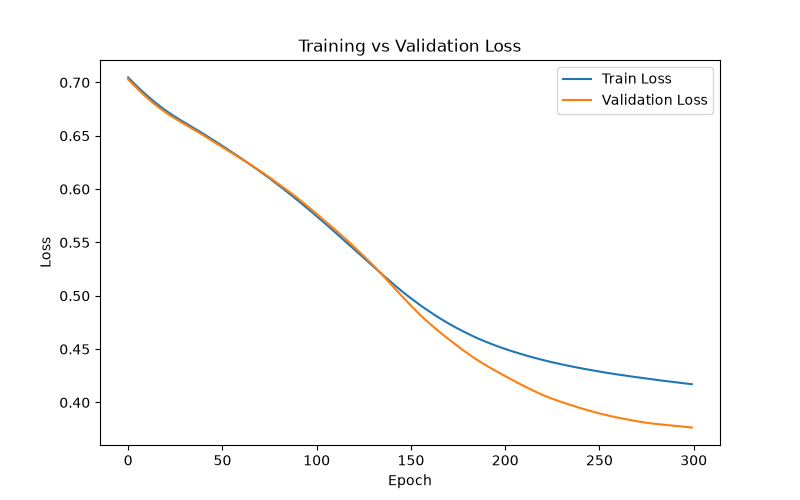
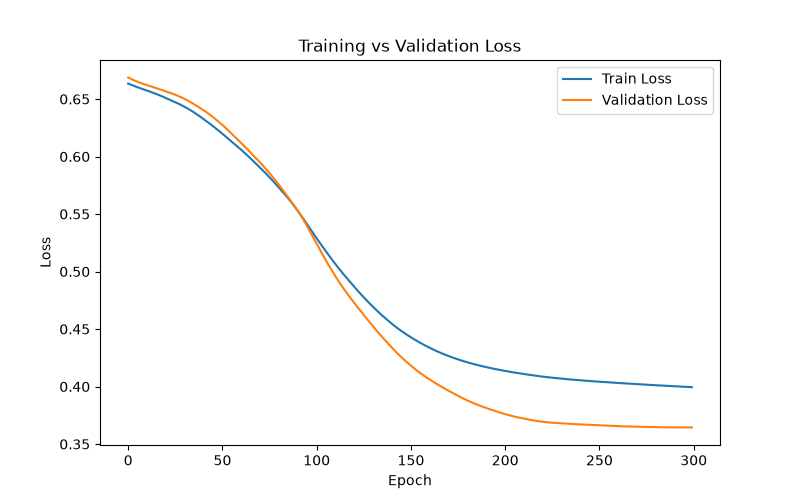
completed all three bonus tasks: hyperparameter tuning, model comparision, explainability

diff --git a/hyperparameter_tuning.py b/hyperparameter_tuning.py
@@ -1,0 +1,117 @@
+import pandas as pd
+import torch
+import torch.nn as nn
+from sklearn.preprocessing import StandardScaler
+from sklearn.model_selection import train_test_split
+from sklearn.metrics import accuracy_score, recall_score, f1_score
+
+# --- Data prep (same pipeline as model.py) ---
+df = pd.read_csv("data/titanic.csv")
+
+df["Age"] = df["Age"].fillna(df["Age"].median())
+df["Embarked"] = df["Embarked"].fillna(df["Embarked"].mode()[0])
+df = df.drop(columns=["Cabin", "PassengerId", "Name", "Ticket"])
+
+df["Sex"] = df["Sex"].map({"male": 0, "female": 1})
+df = pd.get_dummies(df, columns=["Embarked"], drop_first=True)
+df["Embarked_Q"] = df["Embarked_Q"].astype(int)
+df["Embarked_S"] = df["Embarked_S"].astype(int)
+
+X = df.drop(columns=["Survived"])
+y = df["Survived"]
+
+X_train, X_temp, y_train, y_temp = train_test_split(X, y, test_size=0.30, random_state=42, stratify=y)
+X_val, X_test, y_val, y_test = train_test_split(X_temp, y_temp, test_size=0.50, random_state=42, stratify=y_temp)
+
+scaler = StandardScaler()
+numeric_cols = ["Age", "Fare", "SibSp", "Parch"]
+X_train[numeric_cols] = scaler.fit_transform(X_train[numeric_cols])
+X_val[numeric_cols] = scaler.transform(X_val[numeric_cols])
+X_test[numeric_cols] = scaler.transform(X_test[numeric_cols])
+
+X_train_t = torch.tensor(X_train.values, dtype=torch.float32)
+X_val_t = torch.tensor(X_val.values, dtype=torch.float32)
+X_test_t = torch.tensor(X_test.values, dtype=torch.float32)
+y_train_t = torch.tensor(y_train.values, dtype=torch.float32).view(-1, 1)
+y_val_t = torch.tensor(y_val.values, dtype=torch.float32).view(-1, 1)
+y_test_t = torch.tensor(y_test.values, dtype=torch.float32).view(-1, 1)
+
+class FlexibleNet(nn.Module):
+    def __init__(self, input_size, hidden_sizes, activation="relu", dropout=0.0):
+        super().__init__()
+        layers = []
+        prev_size = input_size
+
+        act_fn = {"relu": nn.ReLU(), "tanh": nn.Tanh(), "leaky_relu": nn.LeakyReLU()}[activation]
+
+        for h in hidden_sizes:
+            layers.append(nn.Linear(prev_size, h))
+            layers.append(act_fn)
+            if dropout > 0:
+                layers.append(nn.Dropout(dropout))
+            prev_size = h
+
+        layers.append(nn.Linear(prev_size, 1))
+        layers.append(nn.Sigmoid())
+
+        self.network = nn.Sequential(*layers)
+
+    def forward(self, x):
+        return self.network(x)
+
+def train_and_evaluate(model, learning_rate=0.001, epochs=200):
+    criterion = nn.BCELoss()
+    optimizer = torch.optim.Adam(model.parameters(), lr=learning_rate)
+
+    for epoch in range(epochs):
+        model.train()
+        optimizer.zero_grad()
+        outputs = model(X_train_t)
+        loss = criterion(outputs, y_train_t)
+        loss.backward()
+        optimizer.step()
+
+    model.eval()
+    with torch.no_grad():
+        test_outputs = model(X_test_t)
+        test_preds = (test_outputs >= 0.5).float()
+
+    y_true = y_test_t.numpy()
+    y_pred = test_preds.numpy()
+
+    return {
+        "accuracy": accuracy_score(y_true, y_pred),
+        "recall": recall_score(y_true, y_pred),
+        "f1": f1_score(y_true, y_pred),
+    }
+
+# --- Grid search ---
+learning_rates = [0.001, 0.01, 0.0001]
+architectures = {
+    "small [8]": [8],
+    "medium [16,8]": [16, 8],
+    "large [32,16]": [32, 16],
+}
+
+grid_results = []
+
+for lr in learning_rates:
+    for arch_name, hidden_sizes in architectures.items():
+        torch.manual_seed(42)
+        model = FlexibleNet(input_size=8, hidden_sizes=hidden_sizes, activation="relu", dropout=0.0)
+        metrics = train_and_evaluate(model, learning_rate=lr)
+        grid_results.append({
+            "learning_rate": lr,
+            "architecture": arch_name,
+            **metrics
+        })
+
+# --- Print as a sorted table, best F1 first ---
+grid_results_sorted = sorted(grid_results, key=lambda r: r["f1"], reverse=True)
+
+print(f"{'LR':<10}{'Architecture':<16}{'Accuracy':<12}{'Recall':<12}{'F1':<12}")
+print("-" * 62)
+for r in grid_results_sorted:
+    print(f"{r['learning_rate']:<10}{r['architecture']:<16}{r['accuracy']:<12.4f}{r['recall']:<12.4f}{r['f1']:<12.4f}")
+
+print(f"\nBest combination: LR={grid_results_sorted[0]['learning_rate']}, Architecture={grid_results_sorted[0]['architecture']}")

diff --git a/explainability.py b/explainability.py
@@ -1,0 +1,101 @@
+import pandas as pd
+import numpy as np
+import torch
+import torch.nn as nn
+import matplotlib.pyplot as plt
+from sklearn.preprocessing import StandardScaler
+from sklearn.model_selection import train_test_split
+from sklearn.metrics import accuracy_score
+
+# --- Data prep (identical pipeline, identical random_state, to match model.py exactly) ---
+df = pd.read_csv("data/titanic.csv")
+
+df["Age"] = df["Age"].fillna(df["Age"].median())
+df["Embarked"] = df["Embarked"].fillna(df["Embarked"].mode()[0])
+df = df.drop(columns=["Cabin", "PassengerId", "Name", "Ticket"])
+
+df["Sex"] = df["Sex"].map({"male": 0, "female": 1})
+df = pd.get_dummies(df, columns=["Embarked"], drop_first=True)
+df["Embarked_Q"] = df["Embarked_Q"].astype(int)
+df["Embarked_S"] = df["Embarked_S"].astype(int)
+
+X = df.drop(columns=["Survived"])
+y = df["Survived"]
+
+X_train, X_temp, y_train, y_temp = train_test_split(X, y, test_size=0.30, random_state=42, stratify=y)
+X_val, X_test, y_val, y_test = train_test_split(X_temp, y_temp, test_size=0.50, random_state=42, stratify=y_temp)
+
+scaler = StandardScaler()
+numeric_cols = ["Age", "Fare", "SibSp", "Parch"]
+X_train[numeric_cols] = scaler.fit_transform(X_train[numeric_cols])
+X_test[numeric_cols] = scaler.transform(X_test[numeric_cols])
+
+y_test_t = torch.tensor(y_test.values, dtype=torch.float32).view(-1, 1)
+
+# --- Rebuild the SAME architecture, then load saved weights into it ---
+class TitanicNet(nn.Module):
+    def __init__(self, input_size):
+        super().__init__()
+        self.layer1 = nn.Linear(input_size, 16)
+        self.layer2 = nn.Linear(16, 8)
+        self.output = nn.Linear(8, 1)
+        self.relu = nn.ReLU()
+        self.sigmoid = nn.Sigmoid()
+
+    def forward(self, x):
+        x = self.relu(self.layer1(x))
+        x = self.relu(self.layer2(x))
+        x = self.sigmoid(self.output(x))
+        return x
+
+model = TitanicNet(input_size=X_train.shape[1])
+model.load_state_dict(torch.load("trained_model.pt"))
+model.eval()
+
+print("Loaded trained model successfully.")
+
+
+def get_accuracy(model, X_tensor, y_tensor):
+    model.eval()
+    with torch.no_grad():
+        outputs = model(X_tensor)
+        preds = (outputs >= 0.5).float()
+    return accuracy_score(y_tensor.numpy(), preds.numpy())
+
+X_test_t = torch.tensor(X_test.values, dtype=torch.float32)
+
+# --- Baseline accuracy, unshuffled ---
+baseline_acc = get_accuracy(model, X_test_t, y_test_t)
+print(f"Baseline test accuracy: {baseline_acc:.4f}\n")
+
+# --- Permutation importance: shuffle one feature at a time ---
+importances = {}
+feature_names = X_test.columns.tolist()
+
+np.random.seed(42)
+for i, feature in enumerate(feature_names):
+    X_test_permuted = X_test.copy()
+    X_test_permuted[feature] = np.random.permutation(X_test_permuted[feature].values)
+
+    X_permuted_t = torch.tensor(X_test_permuted.values, dtype=torch.float32)
+    permuted_acc = get_accuracy(model, X_permuted_t, y_test_t)
+
+    importance = baseline_acc - permuted_acc
+    importances[feature] = importance
+    print(f"{feature:<15} accuracy after shuffle: {permuted_acc:.4f}  |  importance (drop): {importance:.4f}")
+
+# --- Plot as sorted horizontal bar chart ---
+sorted_items = sorted(importances.items(), key=lambda x: x[1], reverse=True)
+names = [item[0] for item in sorted_items]
+values = [item[1] for item in sorted_items]
+
+plt.figure(figsize=(8,5))
+plt.barh(names, values)
+plt.xlabel("Accuracy Drop (Importance)")
+plt.title("Permutation Feature Importance (Neural Network)")
+plt.gca().invert_yaxis()
+plt.tight_layout()
+plt.savefig("plots/feature_importance.png")
+plt.close()
+
+print("\nFeature importance plot saved to plots/feature_importance.png")

diff --git a/classical_comparision.py b/classical_comparision.py
@@ -1,0 +1,60 @@
+import pandas as pd
+from sklearn.preprocessing import StandardScaler
+from sklearn.model_selection import train_test_split
+from sklearn.linear_model import LogisticRegression
+from sklearn.tree import DecisionTreeClassifier
+from sklearn.ensemble import RandomForestClassifier
+from sklearn.metrics import accuracy_score, recall_score, f1_score
+
+# --- Data prep (same pipeline as model.py / experiments.py) ---
+df = pd.read_csv("data/titanic.csv")
+
+df["Age"] = df["Age"].fillna(df["Age"].median())
+df["Embarked"] = df["Embarked"].fillna(df["Embarked"].mode()[0])
+df = df.drop(columns=["Cabin", "PassengerId", "Name", "Ticket"])
+
+df["Sex"] = df["Sex"].map({"male": 0, "female": 1})
+df = pd.get_dummies(df, columns=["Embarked"], drop_first=True)
+df["Embarked_Q"] = df["Embarked_Q"].astype(int)
+df["Embarked_S"] = df["Embarked_S"].astype(int)
+
+X = df.drop(columns=["Survived"])
+y = df["Survived"]
+
+X_train, X_temp, y_train, y_temp = train_test_split(X, y, test_size=0.30, random_state=42, stratify=y)
+X_val, X_test, y_val, y_test = train_test_split(X_temp, y_temp, test_size=0.50, random_state=42, stratify=y_temp)
+
+scaler = StandardScaler()
+numeric_cols = ["Age", "Fare", "SibSp", "Parch"]
+X_train[numeric_cols] = scaler.fit_transform(X_train[numeric_cols])
+X_val[numeric_cols] = scaler.transform(X_val[numeric_cols])
+X_test[numeric_cols] = scaler.transform(X_test[numeric_cols])
+
+# --- Classical ML models ---
+models = {
+    "Logistic Regression": LogisticRegression(random_state=42),
+    "Decision Tree": DecisionTreeClassifier(random_state=42, max_depth=5),
+    "Random Forest": RandomForestClassifier(random_state=42, n_estimators=100, max_depth=5),
+}
+
+results = []
+
+for name, clf in models.items():
+    clf.fit(X_train, y_train)
+    preds = clf.predict(X_test)
+
+    results.append({
+        "model": name,
+        "accuracy": accuracy_score(y_test, preds),
+        "recall": recall_score(y_test, preds),
+        "f1": f1_score(y_test, preds),
+    })
+
+# Add NN baseline result for direct comparison (from Part 5 evaluation)
+results.append({"model": "Neural Network (baseline)", "accuracy": 0.7463, "recall": 0.6863, "f1": 0.6731})
+
+# --- Print comparison table ---
+print(f"{'Model':<28}{'Accuracy':<12}{'Recall':<12}{'F1':<12}")
+print("-" * 64)
+for r in results:
+    print(f"{r['model']:<28}{r['accuracy']:<12.4f}{r['recall']:<12.4f}{r['f1']:<12.4f}")

diff --git a/model.py b/model.py
@@ -120,6 +120,9 @@ plt.legend()
 plt.savefig("plots/loss_curve.png")
 plt.close()
 
+torch.save(model.state_dict(), "trained_model.pt")
+print("Model saved to trained_model.pt")
+
 print("Loss curve saved to plots/loss_curve.png")
 
 plt.figure(figsize=(8,5))

diff --git a/answers.md b/answers.md
@@ -219,3 +219,93 @@ suggests it is weighing multiple features together rather than relying on a
 single dominant shortcut rule (e.g., "if male, always predict low"). This is a
 more convincing sign of genuine multi-feature learning than the confident
 predictions on the other four, more clear-cut passengers.
+
+## Bonus 1: Hyperparameter Tuning
+
+Ran a grid search over 3 learning rates (0.001, 0.01, 0.0001) x 3 architectures
+(small [8], medium [16,8] = baseline, large [32,16]) = 9 total combinations,
+using a fixed random seed before each model's creation for fair comparison.
+
+**Best combination:** LR=0.001, Architecture=large [32,16] — Accuracy 78.36%,
+Recall 68.63%, F1 0.7071 (best F1 across the entire project so far, edging out
+the original baseline's 0.6731).
+
+**Key finding — underfitting demonstrated directly:** LR=0.0001 produced Recall
+and F1 of exactly 0.0000 for both the small and large architectures, meaning the
+model predicted "died" for every single test passenger. This is a concrete,
+reproducible example of underfitting: the learning rate was too small for 200
+epochs to move the weights meaningfully past their random starting point, likely
+never reaching the sharp "signal discovery" jump seen around epoch 55-65 in the
+baseline's own accuracy curve (Part 6).
+
+**General pattern:** LR=0.001 consistently outperformed both LR=0.01 (moderate,
+less stable) and LR=0.0001 (too slow, near-collapse) across all three
+architectures, validating the original baseline's learning rate choice.
+
+## Bonus 2: Model Comparison — Neural Network vs Classical ML
+
+Trained Logistic Regression, Decision Tree (max_depth=5), and Random Forest
+(100 trees, max_depth=5) on the identical preprocessed train/test split used
+for the neural network.
+
+| Model                      | Accuracy | Recall | F1     |
+|------------------------------|----------|--------|--------|
+| Logistic Regression         | 0.7388   | 0.6863 | 0.6667 |
+| Decision Tree                | 0.7537   | 0.5098 | 0.6118 |
+| Random Forest                 | 0.7761   | 0.6078 | 0.6739 |
+| Neural Network (baseline)    | 0.7463   | 0.6863 | 0.6731 |
+
+**Key finding:** Logistic Regression — mathematically the simplest possible
+model (equivalent to a neural network with zero hidden layers) — matched the
+Neural Network's recall exactly (68.63%) and scored close on F1. This is strong
+evidence that survival patterns in this dataset are largely linear/simple
+enough that a full neural network's hidden-layer capacity for learning
+nonlinear feature interactions isn't providing a decisive advantage here.
+
+Decision Tree underperformed on recall (50.98%) relative to the ensemble
+Random Forest (60.78%), illustrating why ensembling exists: a single tree is
+more sensitive/unstable to which specific rows land in train vs test on a
+small dataset, and Random Forest's averaging over many trees smooths this out.
+
+**Conclusion:** Given recall was established as the priority metric (Part 5,
+Q3), Logistic Regression and the Neural Network are effectively tied as the
+best choices, with Logistic Regression achieving this with far less complexity
+and computational cost. The neural network remains a valid, competitive choice,
+and fulfills the task's explicit goal of demonstrating NN fundamentals, but
+this comparison shows it is not strictly necessary for this dataset.
+
+## Bonus 3: Explainability — Permutation Feature Importance
+
+Used permutation importance on the trained (saved/reloaded) baseline neural
+network: for each feature, shuffled its values in the test set (breaking its
+relationship to the target while keeping all other features intact), and
+measured the resulting drop in test accuracy relative to baseline (76.12%).
+
+| Feature     | Accuracy after shuffle | Importance (accuracy drop) |
+|--------------|--------------------------|------------------------------|
+| Sex          | 0.5672                   | 0.1940                        |
+| SibSp        | 0.7164                   | 0.0448                        |
+| Age          | 0.7239                   | 0.0373                        |
+| Parch        | 0.7463                   | 0.0149                        |
+| Pclass       | 0.7537                   | 0.0075                        |
+| Embarked_Q   | 0.7537                   | 0.0075                        |
+| Fare         | 0.7687                   | -0.0075                       |
+| Embarked_S   | 0.7687                   | -0.0075                       |
+
+**Key finding:** Sex is overwhelmingly the most important feature — shuffling
+it alone drops accuracy by 19.4 percentage points, roughly 4-5x larger than
+the next most important features (SibSp, Age). This directly confirms the EDA
+observation from Part 2 (female survival ~74% vs male ~19%) using an
+independent, model-based method rather than just visual inspection.
+
+Fare and Embarked_S showed small negative importance values, which is
+attributable to sampling noise given the small (134-row) test set — a
+single flipped prediction is worth ~0.0075 in accuracy, matching the
+magnitude seen here — rather than a genuine negative effect. A more robust
+estimate would average multiple permutation repeats per feature.
+
+**Connection to Bonus 2:** Sex's dominant, near-linear relationship with
+survival helps explain why Logistic Regression performed comparably to the
+Neural Network — when one feature carries most of the signal in a fairly
+direct way, a simple linear model can capture much of that relationship
+without needing hidden-layer nonlinearity.
